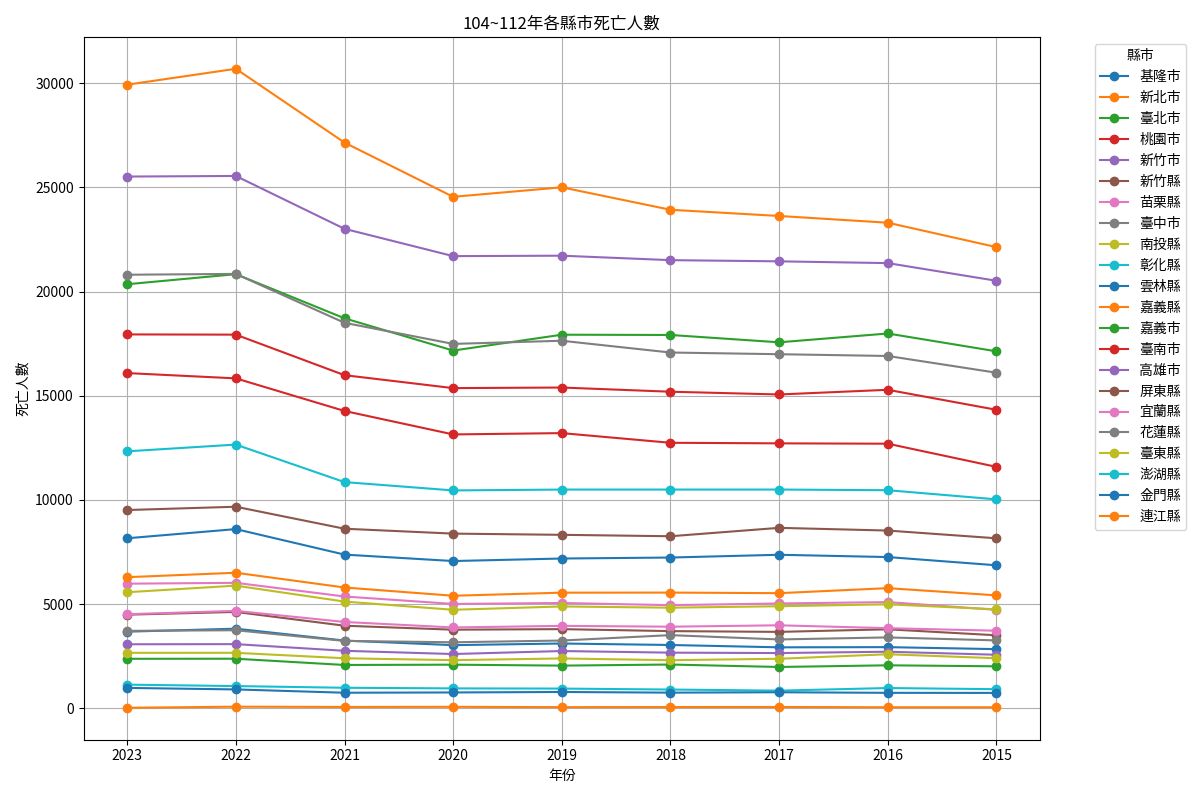
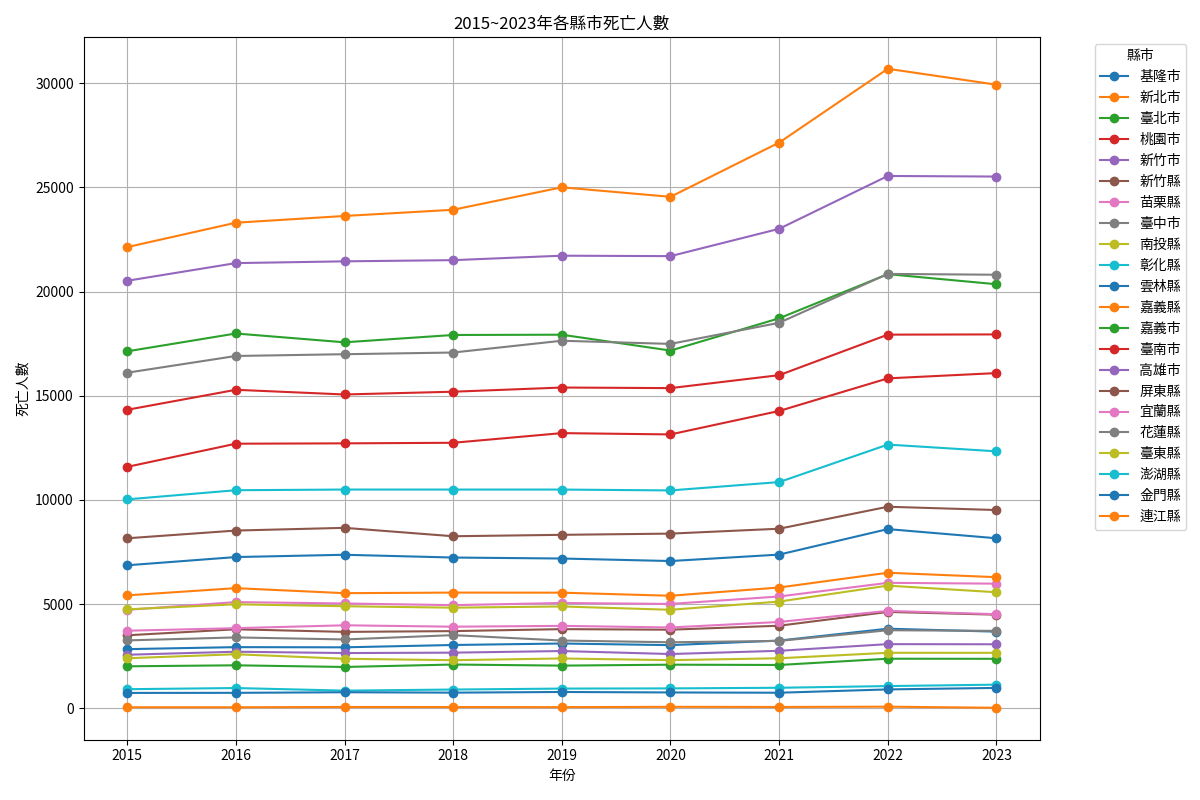
2015-2024年各縣市死亡人數統計
2015-2024年各縣市死亡人數統計
README修改

diff --git a/subject/Death/Death3.py b/subject/Death/Death3.py
@@ -11,40 +11,52 @@ custom_order = [
     '宜蘭縣', '花蓮縣', '臺東縣', '澎湖縣', '金門縣', '連江縣'
 ]
 
-# 讀取 xls 檔案
+### 讀取2015-2023年資料 ###
 xls = pd.ExcelFile("./subject/Death/縣市死亡人口按五齡組(按發生)(96).xls")
-
-# 初始化總表
 all_data = pd.DataFrame()
 
-# 依序讀取工作表
-for year in range(2015, 2024):  # 2015-2023年
+for year in range(2015, 2024):  # 104~112
     sheet_name = str(year-1911)
     df = xls.parse(sheet_name)
-
     data = []
     for i in range(8, len(df), 3):
-        city = str(df.iloc[i, 0]).replace(" ", "").strip()  # 移除空格與前後空白
-        death = df.iloc[i-1, 2]
+        city = str(df.iloc[i, 0]).replace(" ", "").strip()
+        death = df.iloc[i - 1, 2]
         data.append({"縣市": city, str(year): death})
-
     year_df = pd.DataFrame(data)
     if all_data.empty:
         all_data = year_df
     else:
         all_data = pd.merge(all_data, year_df, on="縣市", how="outer")
 
-# 將縣市依照 custom_order 排序
+### 讀取2024年資料 ###
+xls_path = './subject/Death/縣市出生死亡結婚離婚(按登記)-113年.xls'
+df_2024 = pd.read_excel(xls_path, sheet_name='縣市全年出生率、結婚率等')
+death_data_2024 = df_2024.loc[3:, [df_2024.columns[0], df_2024.columns[3]]]
+death_data_2024.columns = ['縣市', '2024']
+death_data_2024['縣市'] = death_data_2024['縣市'].astype(str).str.replace(r'\s+', '', regex=True)
+death_data_2024 = death_data_2024[
+    death_data_2024['縣市'].isin(custom_order) & 
+    (death_data_2024['縣市'].str.len() < 8)
+]
+
+### 合併2024年資料 ###
 all_data["sort_key"] = all_data["縣市"].apply(lambda x: custom_order.index(x) if x in custom_order else -1)
 all_data = all_data[all_data["sort_key"] >= 0].sort_values("sort_key").drop("sort_key", axis=1)
+death_data_2024 = death_data_2024[["縣市", "2024"]]
+combined_data = pd.merge(all_data, death_data_2024, on="縣市", how="left")
 
-# 設定中文字型（避免中文亂碼）
-fontManager.addfont("ChineseFont.ttf") #加入字體
-mlp.rc("font",family="ChineseFont") #設定使用這個字體
+# 設定中文字型
+fontManager.addfont("ChineseFont.ttf")
+mlp.rc("font", family="ChineseFont")
 
-# 畫圖
-all_data.set_index("縣市").T.plot(figsize=(12, 8), marker='o')
-plt.title("2015~2023年各縣市死亡人數")
+### 畫圖 ###
+combined_data_sorted = combined_data.copy()
+combined_data_sorted["排序"] = combined_data_sorted["縣市"].apply(lambda x: custom_order.index(x))
+combined_data_sorted = combined_data_sorted.sort_values("排序").drop(columns=["排序"])
+
+combined_data_sorted.set_index("縣市").T.plot(figsize=(12, 8), marker='o')
+plt.title("2015~2024年各縣市死亡人數")
 plt.xlabel("年份")
 plt.ylabel("死亡人數")
 plt.grid(True)
@@ -61,9 +73,8 @@ def on_add(sel):
     sel.annotation.set_text(f"{city}\n死亡人數: {int(y)}")
 
 plt.tight_layout()
-plt.savefig("死亡人數2015-2023.png")
+plt.savefig("死亡人數2015-2024.png")
 plt.show()
 
-all_data_renamed = all_data.copy()
-all_data_renamed.columns = [col for col in all_data.columns]
-all_data_renamed.to_csv("死亡人數2015-2023.csv", index=False, encoding="utf-8-sig")
+### 輸出 CSV ###
+combined_data_sorted.to_csv("死亡人數2015-2024.csv", index=False, encoding="utf-8")

diff --git a/subject/Death/README.md b/subject/Death/README.md
@@ -4,6 +4,8 @@ Death -> 2024年各縣市死亡人數
 
 Death2 -> 2015-2023年各縣市死亡人數
 
+Death3 -> 2015-2024年各縣市死亡人數
+
 死亡人數2024.png -> Death 的輸出結果
 
 死亡人數2024.csv -> Death 的輸出結果
@@ -11,3 +13,7 @@ Death2 -> 2015-2023年各縣市死亡人數
 死亡人數2025-2023.png -> Death2 的輸出結果
 
 死亡人數2025-2023.csv -> Death2 的輸出結果
+
+死亡人數2025-2024.png -> Death3 的輸出結果
+
+死亡人數2025-2024.csv -> Death3 的輸出結果
